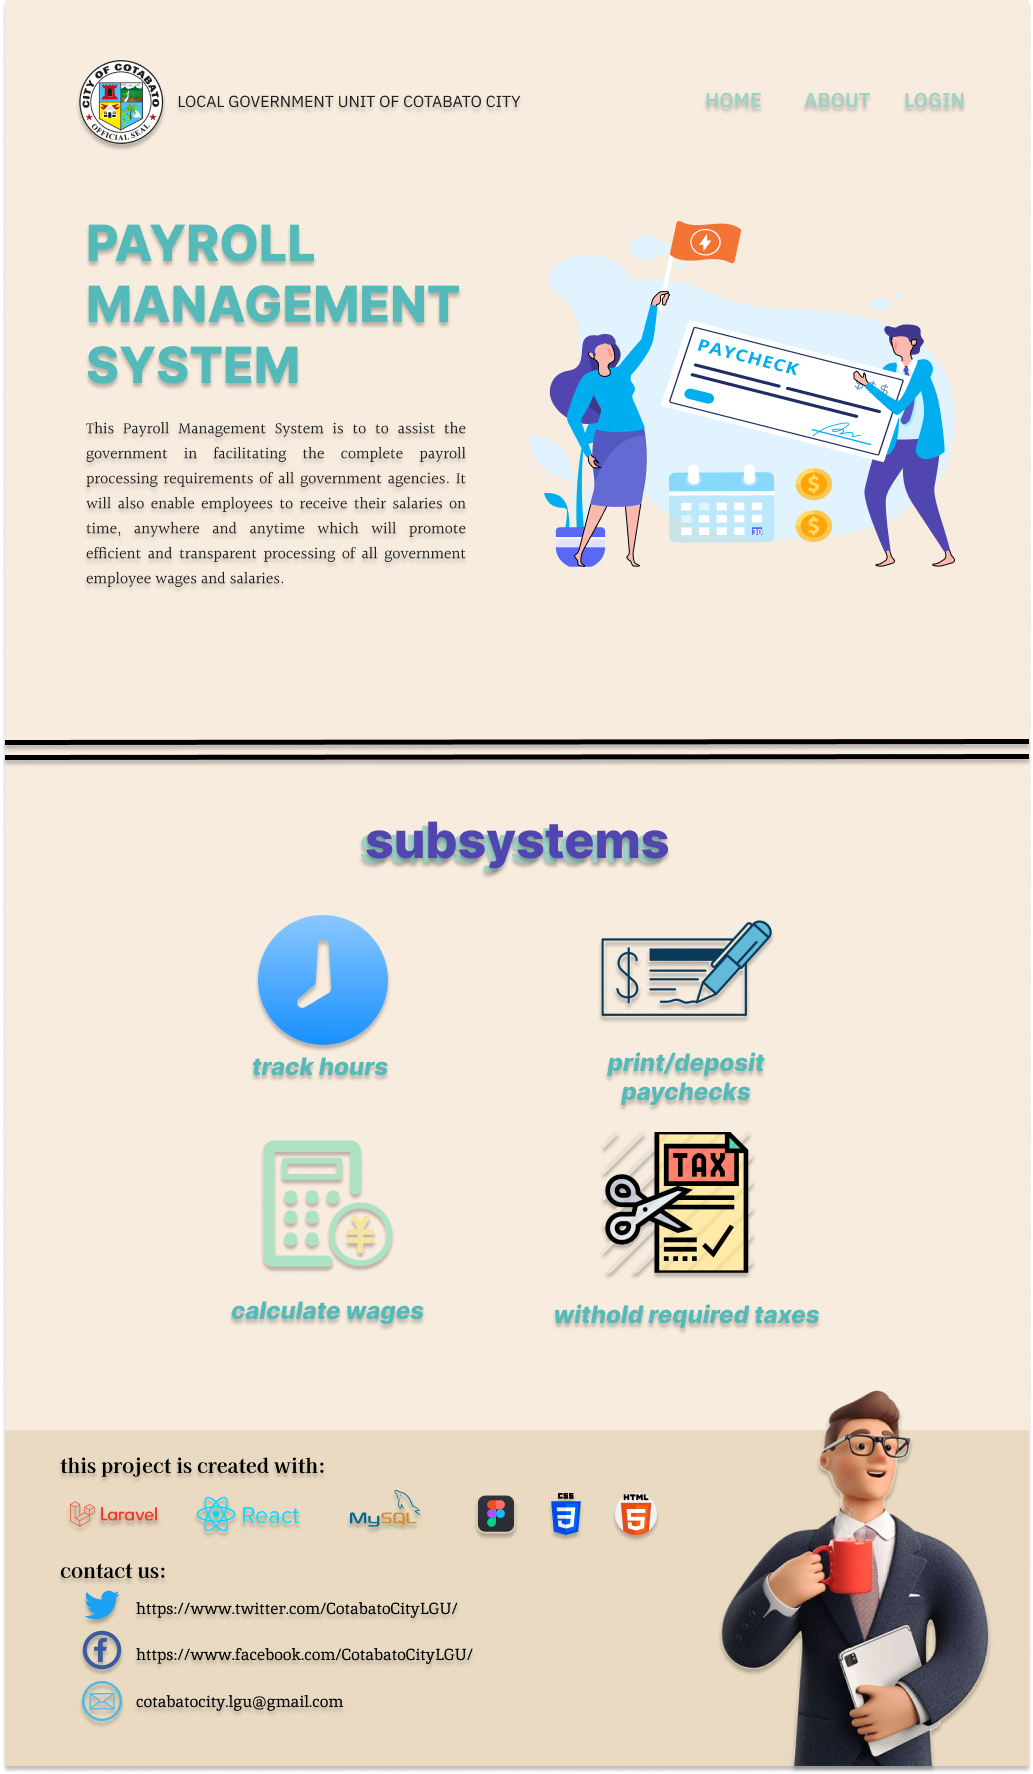
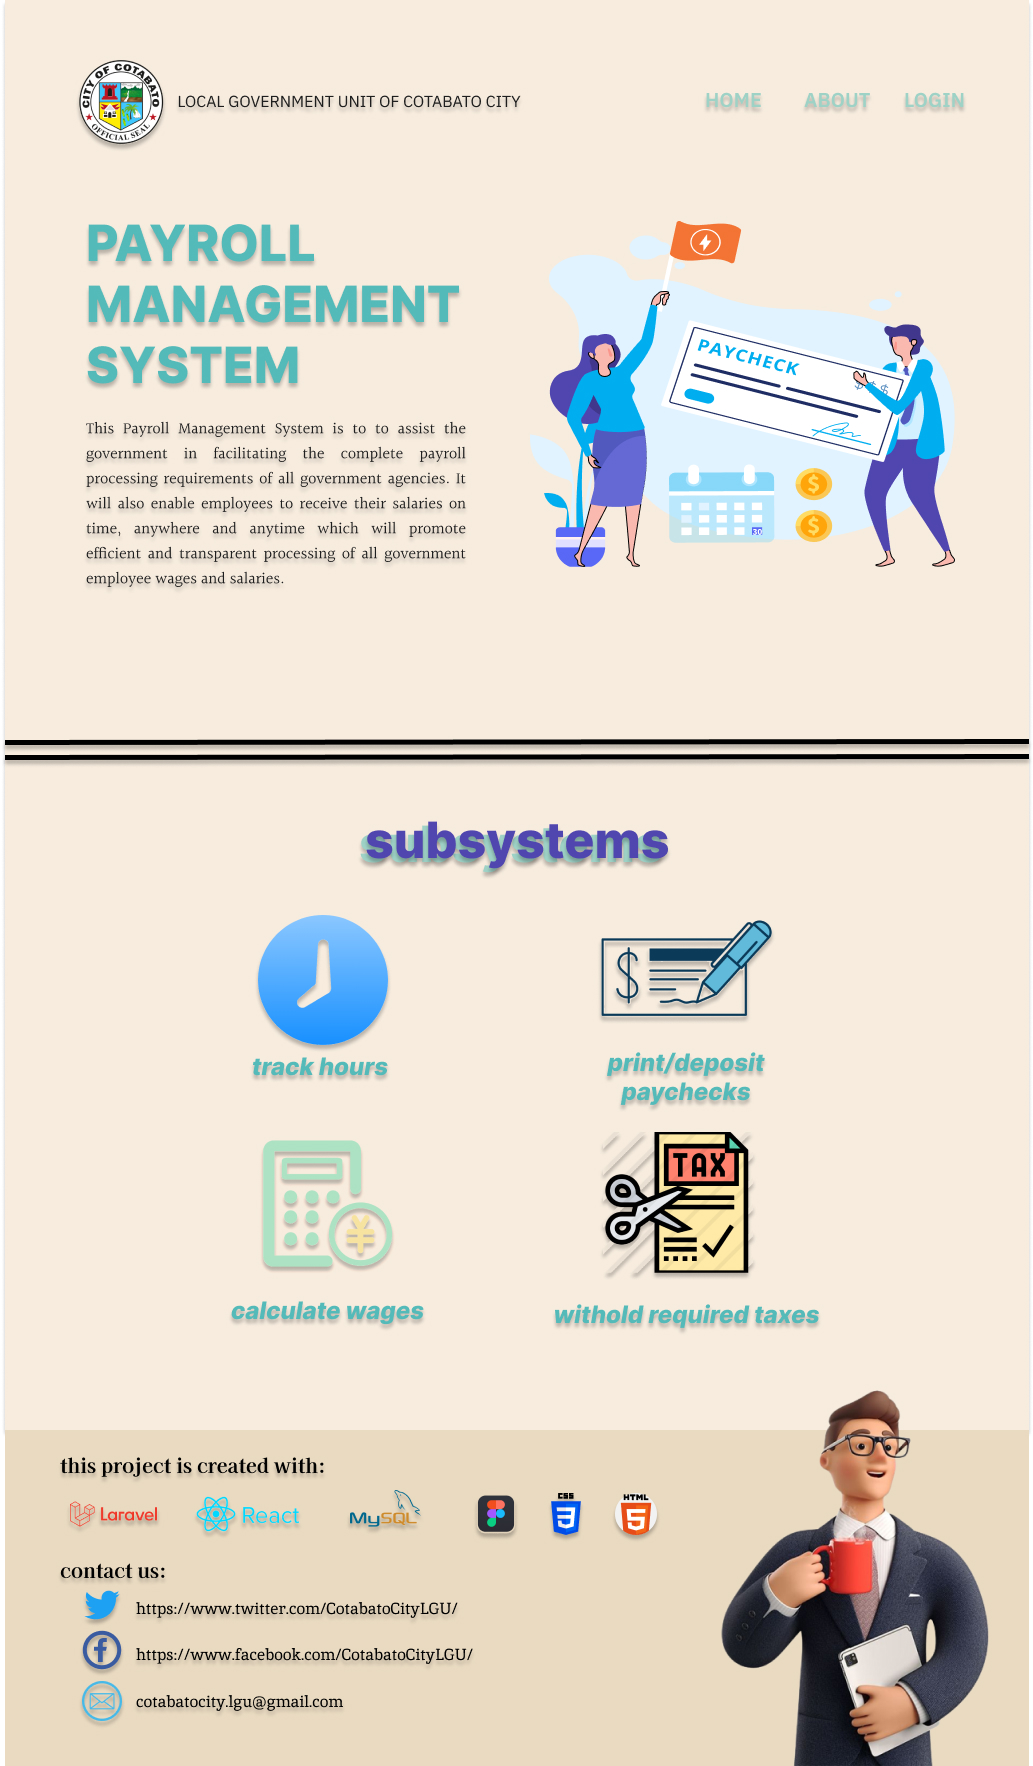
added footer

diff --git a/index.html b/index.html
@@ -62,26 +62,26 @@
                 </h2>
                 <ul class="subsystems__list">
                     <li class="subsystems__item">
-                        <img class="subsystems__img" src="images/subsystem-item1.png" alt="subsystem-img1">
-                        <span class="subsystems__img-title">
+                        <img class="subsystems__img subsystems__img1" src="images/subsystem-item1.png" alt="subsystem-img1">
+                        <span class="subsystems__img-title subsystems__img-title1">
                             track hours
                         </span>
                     </li>
                     <li class="subsystems__item">
-                        <img class="subsystems__img" src="images/subsystem-item2.png" alt="subsystem-img2">
-                        <span class="subsystems__img-title">
+                        <img class="subsystems__img subsystems__img2" src="images/subsystem-item2.png" alt="subsystem-img2">
+                        <span class="subsystems__img-title subsystems__img-title2">
                             print/deposit paychecks
                         </span>
                     </li>
                     <li class="subsystems__item">
-                        <img class="subsystems__img" src="images/subsystem-item3.png" alt="subsystem-img3">
-                        <span class="subsystems__img-title">
+                        <img class="subsystems__img subsystems__img3" src="images/subsystem-item3.png" alt="subsystem-img3">
+                        <span class="subsystems__img-title subsystems__img-title3">
                             calculate wages
                         </span>
                     </li>
                     <li class="subsystems__item">
-                        <img class="subsystems__img" src="images/subsystem-item4.png" alt="subsystem-img4">
-                        <span class="subsystems__img-title">
+                        <img class="subsystems__img subsystems__img4" src="images/subsystem-item4.png" alt="subsystem-img4">
+                        <span class="subsystems__img-title subsystems__img-title4">
                             withold required taxes
                         </span>
                     </li>
@@ -89,5 +89,50 @@
             </div>
         </div>
     </section>
+
+    <footer class="footer">
+        <div class="container">
+            <div class="footer__inner">
+                <div class="footer__tools">
+                    <h4 class="footer__tools-title">this project is created with:</h4>
+                    <div class="footer__tools-images">
+                        <img class="footer__tools-image" src="images/laravel.png" alt="laravel">
+                        <img class="footer__tools-image" src="images/react.png" alt="react">
+                        <img class="footer__tools-image" src="images/mysql.png" alt="mysql">
+                        <img class="footer__tools-image" src="images/figma.png" alt="figma">
+                        <img class="footer__tools-image" src="images/css.png" alt="css">
+                        <img class="footer__tools-image" src="images/html.png" alt="html">
+                    </div>
+                </div>
+                <div class="footer__contacts">
+                    <h4 class="footer__contacts-title">
+                        contact us:
+                    </h4>
+                    <ul class="footer__contacts-links">
+                        <li class="footer__link">
+                            <img class="footer__link-img" src="images/twitter.png" alt="twitter">
+                            <span class="footer__link-text">
+                                https://www.twitter.com/CotabatoCityLGU/
+                            </span>
+                        </li>
+                        <li class="footer__link">
+                            <img class="footer__link-img" src="images/facebook.png" alt="facebook">
+                            <span class="footer__link-text">
+                                https://www.facebook.com/CotabatoCityLGU/
+                            </span>
+                        </li>
+                        <li class="footer__link">
+                            <img class="footer__link-img" src="images/email.png" alt="email">
+                            <span class="footer__link-text">
+                                cotabatocity.lgu@gmail.com
+                            </span>
+                        </li>
+                    </ul>
+                </div>
+                <img class="footer__person" src="images/person.png" alt="person">
+            </div>
+        </div>
+    </footer>
+
 </body>
 </html>

diff --git a/css/style.css b/css/style.css
@@ -21,6 +21,7 @@ ul{
 }
 h1,
 h2, 
+h4,
 p{
     padding: 0;
     margin: 0;
@@ -117,7 +118,7 @@ p{
 
 .subsystems_inner{
     max-width: 607px;
-    margin: 0 auto;
+    margin: 0 auto 120px;
 }
 .subsystems__title{
     font-family: 'Inter';
@@ -136,13 +137,16 @@ p{
     flex-wrap: wrap;
     justify-content: space-between;
     align-items: baseline;
+    row-gap: 42px;
 }
-/*.subsystems__item{
+/* .subsystems__item{
     display: flex;
     flex-direction: column;
-}*/
+    align-items: center;
+} */
 .subsystems__img{
     display: block;
+    margin: auto;
 }
 .subsystems__img-title{
     font-family: 'Inter';
@@ -153,4 +157,71 @@ p{
     text-align: center;
     color: #54BAB9;
     text-shadow: 0px 4px 4px rgba(0, 0, 0, 0.25);
+}
+/*
+.subsystems__img1{
+    margin-left:41px;
+}
+.subsystems__img-title1{
+    margin-left:31px;
+}
+.subsystems__img2{
+    margin-left:26px;
+    
+}*/
+
+/* footer */
+
+.footer{
+    background: #E9DAC1
+}
+
+.footer__inner{
+    position: relative;
+}
+.footer__person{
+    position: absolute;
+    right: 0;
+    bottom: 0;
+}
+.footer__tools-title,
+.footer__contacts-title{
+    font-family: 'Kaisei Opti';
+    font-weight: 700;
+    font-size: 20px;
+    line-height: 29px;
+    color: #000000;
+    text-shadow: 0px 4px 4px rgba(0, 0, 0, 0.25);
+}
+.footer__tools-title{
+    padding: 20px 0 11px 56px;
+}
+.footer__tools-images{
+    display: flex;
+    padding-left: 43px;
+    justify-content: space-between;
+    max-width: 657px;
+
+}
+.footer__link-text{
+    font-family: 'Inika';
+    font-weight: 400;
+    font-size: 16px;
+    line-height: 21px;
+    color: #000000;
+    text-shadow: 0px 4px 4px rgba(0, 0, 0, 0.25);
+}
+.footer__contacts-title{
+    padding: 15px 0 0 56px;
+}
+.footer__contacts-links{
+    padding: 0 0 45px 74px;
+
+}
+.footer__link{
+    display: flex;
+    align-items: center;
+}
+.footer__link-text{
+    padding-left: 10px;
 }
